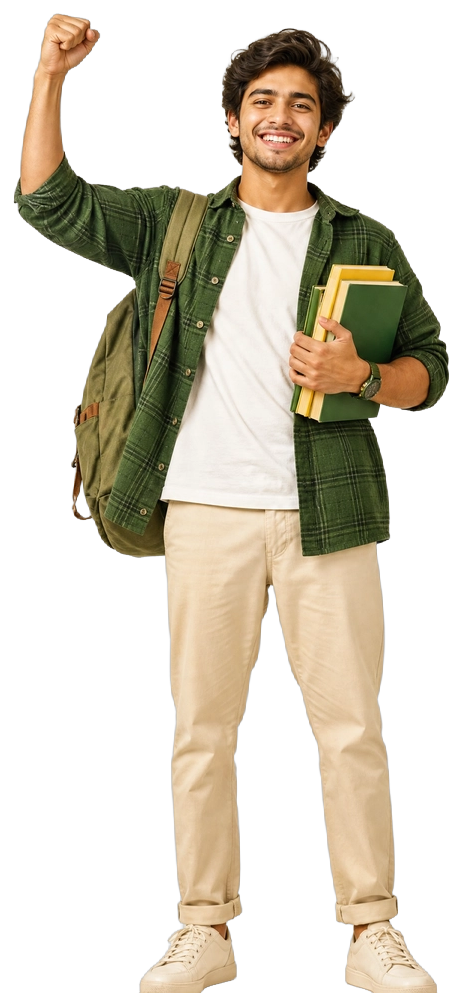
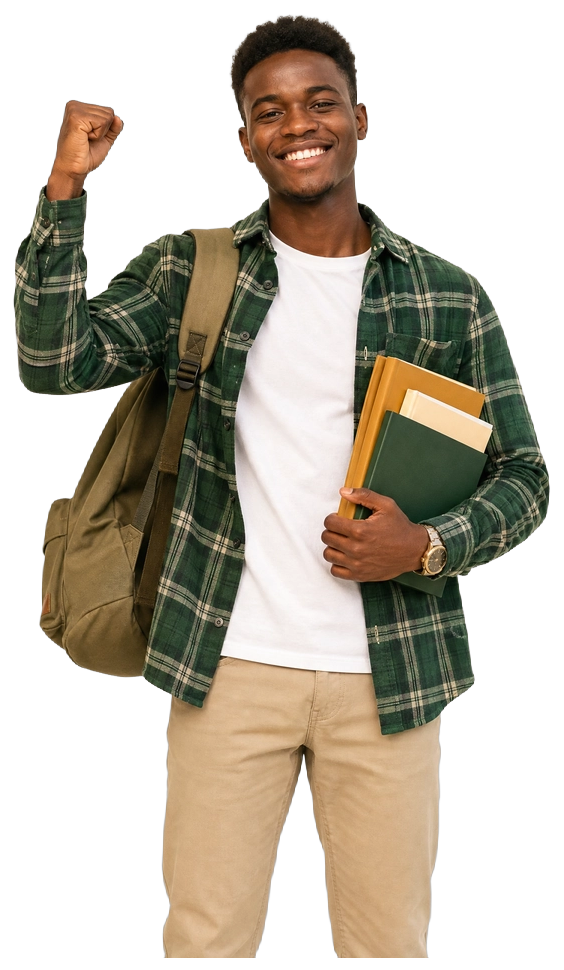
Regenerate hero and About photography with Black subjects
Swaps the homepage hero and About page founder photos for new Bloom
generations depicting Black subjects, matching the Ghana/Accra context
already established in the site's copy. Updates the Image width/height
hints in hero-visual.tsx and about/page.tsx to match the new crops'
actual dimensions.

diff --git a/src/app/(marketing)/about/page.tsx b/src/app/(marketing)/about/page.tsx
@@ -53,8 +53,8 @@ export default function AboutPage() {
               <Image
                 src="/images/about-founder.png"
                 alt="Dr. Abena Owusu, Founder and CEO of THRIVE EDU"
-                width={414}
-                height={1025}
+                width={566}
+                height={968}
                 priority
                 className="relative z-10 h-full w-auto drop-shadow-xl"
               />

diff --git a/src/components/marketing/hero-visual.tsx b/src/components/marketing/hero-visual.tsx
@@ -35,8 +35,8 @@ function HeroVisual() {
       <Image
         src="/images/hero-student.png"
         alt="THRIVE EDU student celebrating a learning milestone"
-        width={462}
-        height={1005}
+        width={564}
+        height={970}
         priority
         className="relative z-10 h-full w-auto drop-shadow-xl"
       />
